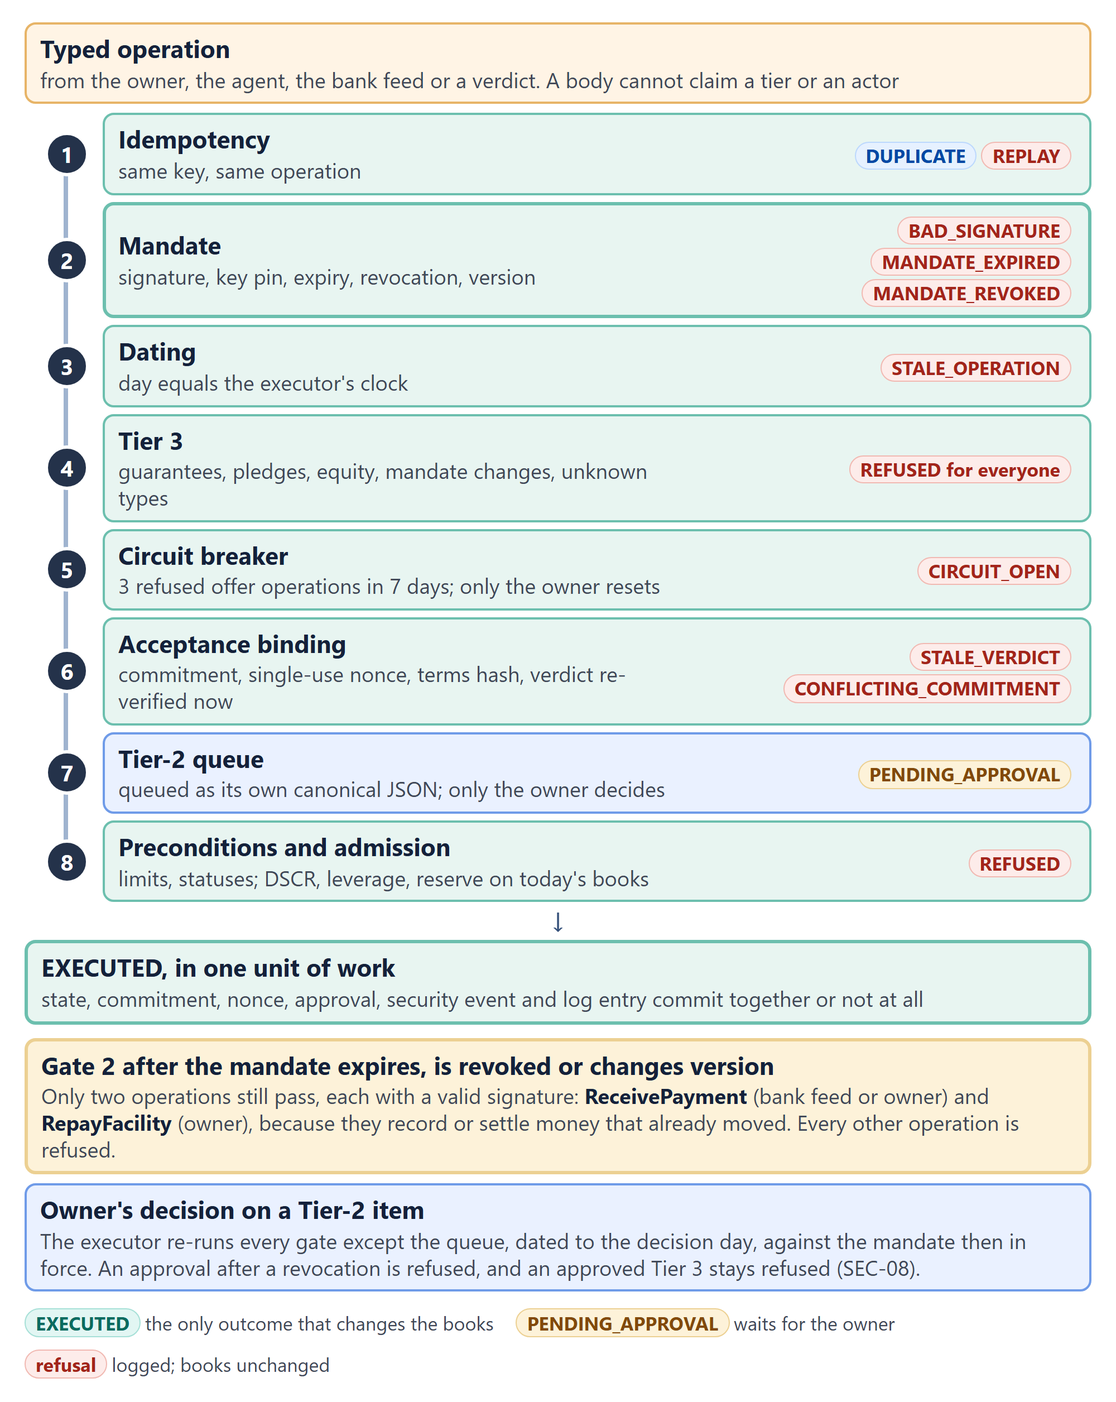
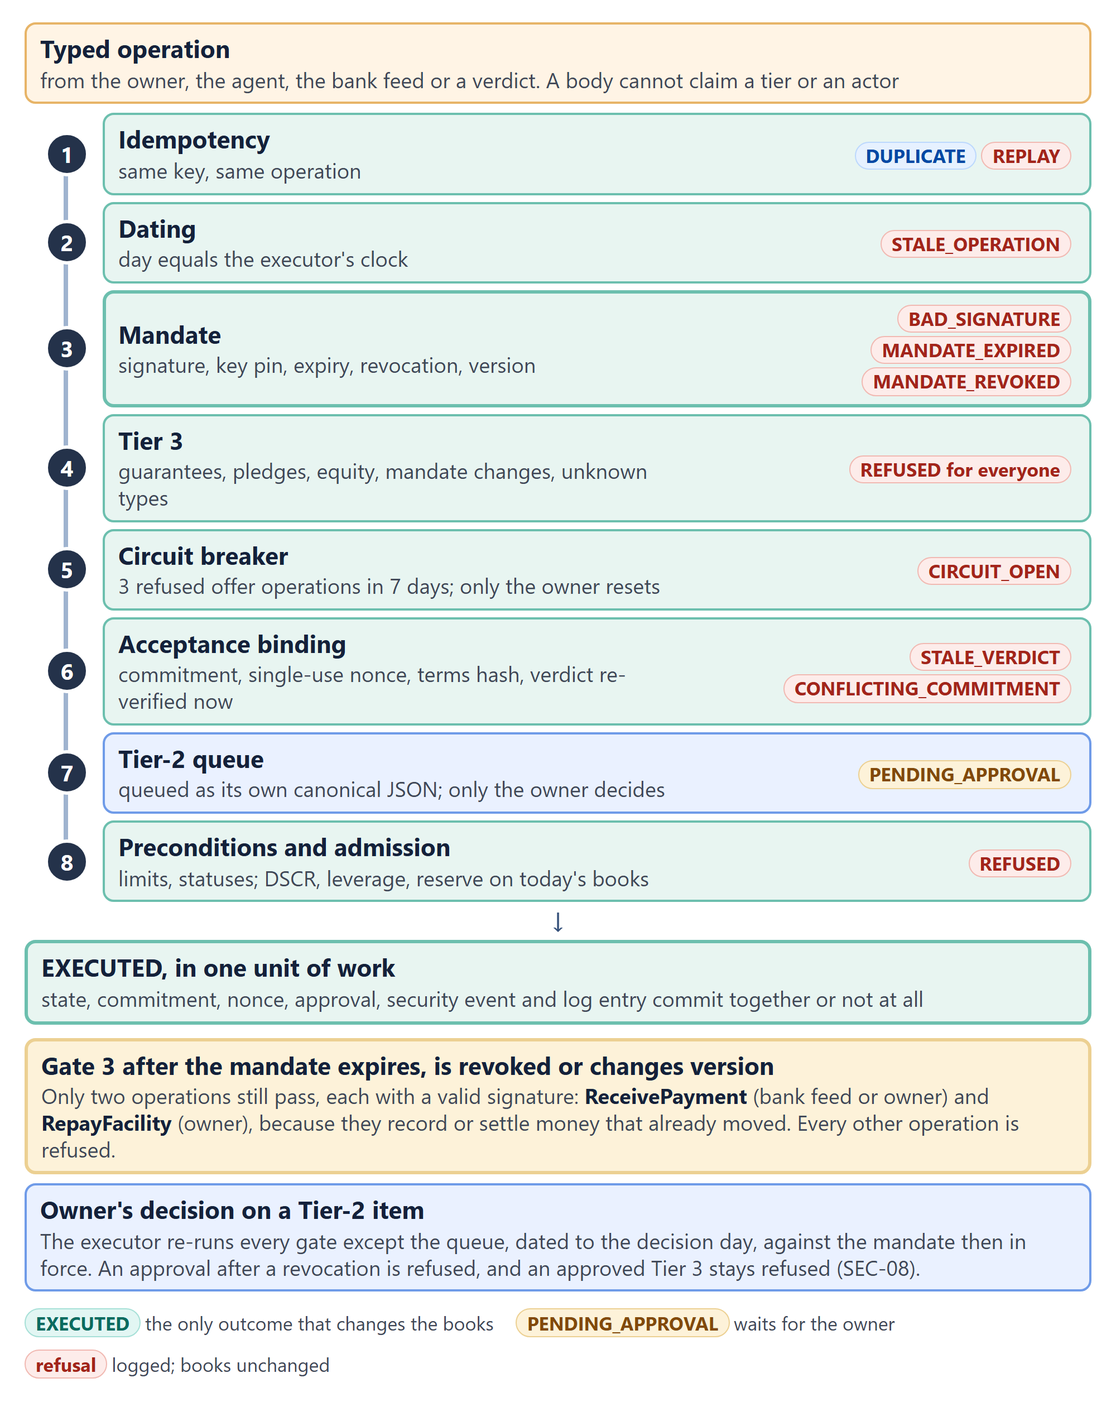
docs(security): v3 review fixes, criterion map, serious-failures table
A second review of v3 found five errors. All are now fixed:
- the gate order (dating runs before the mandate check, as in the
  executor; figure 2 re-rendered);
- the harm-oracle cross-reference;
- the PostgreSQL 6 of 6 runs credited to 0f92d433 alone;
- "DEMO_MODE=1 is off unless set";
- six "kinds of caller", where the language model is a component, not
  a caller.

Added:
- the competition's own criterion wording (induced transfers, data
  extraction, privilege escalation, prompt injection), mapped to the
  controls and the tests;
- a "serious security failures: none observed in the specified runs"
  table, with the same scope as the rest;
- a criterion column in the Appendix D attack table.

Layout:
- header rows are kept with their first row;
- ID columns are at least 0.5 in wide;
- only Appendix A starts a new page;
- figures 1 and 2 follow their section's text.

Refs: review of 17 Oct; docs/research/topic-e-rules.md (c)

Changed region(s): [[0.031, 0.1553, 0.992, 0.2795]]

diff --git a/docs/security/figures/src/fig2.html b/docs/security/figures/src/fig2.html
@@ -12,8 +12,8 @@
 <div class="box unt" style="margin-bottom:8px"><b>Typed operation</b><small>from the owner, the agent, the bank feed or a verdict. A body cannot claim a tier or an actor</small></div>
 <div class="gates">
 <div class="g"><span class="n">1</span><div class="box det"><div class="t"><b>Idempotency</b><small>same key, same operation</small></div><div class="out"><span class="chip c-blu">DUPLICATE</span><span class="chip c-red">REPLAY</span></div></div></div>
-<div class="g"><span class="n">2</span><div class="box det" style="border-width:3px;padding:7px 11px"><div class="t"><b>Mandate</b><small>signature, key pin, expiry, revocation, version</small></div><div class="out"><span class="chip c-red">BAD_SIGNATURE</span><span class="chip c-red">MANDATE_EXPIRED</span><span class="chip c-red">MANDATE_REVOKED</span></div></div></div>
-<div class="g"><span class="n">3</span><div class="box det"><div class="t"><b>Dating</b><small>day equals the executor's clock</small></div><div class="out"><span class="chip c-red">STALE_OPERATION</span></div></div></div>
+<div class="g"><span class="n">2</span><div class="box det"><div class="t"><b>Dating</b><small>day equals the executor's clock</small></div><div class="out"><span class="chip c-red">STALE_OPERATION</span></div></div></div>
+<div class="g"><span class="n">3</span><div class="box det" style="border-width:3px;padding:7px 11px"><div class="t"><b>Mandate</b><small>signature, key pin, expiry, revocation, version</small></div><div class="out"><span class="chip c-red">BAD_SIGNATURE</span><span class="chip c-red">MANDATE_EXPIRED</span><span class="chip c-red">MANDATE_REVOKED</span></div></div></div>
 <div class="g"><span class="n">4</span><div class="box det"><div class="t"><b>Tier 3</b><small>guarantees, pledges, equity, mandate changes, unknown types</small></div><div class="out"><span class="chip c-red">REFUSED for everyone</span></div></div></div>
 <div class="g"><span class="n">5</span><div class="box det"><div class="t"><b>Circuit breaker</b><small>3 refused offer operations in 7 days; only the owner resets</small></div><div class="out"><span class="chip c-red">CIRCUIT_OPEN</span></div></div></div>
 <div class="g"><span class="n">6</span><div class="box det"><div class="t"><b>Acceptance binding</b><small>commitment, single-use nonce, terms hash, verdict re-verified now</small></div><div class="out"><span class="chip c-red">STALE_VERDICT</span><span class="chip c-red">CONFLICTING_COMMITMENT</span></div></div></div>
@@ -23,7 +23,7 @@
 <div class="varrow" style="margin:4px 0">↓</div>
 <div class="box det" style="border-width:3px"><b>EXECUTED, in one unit of work</b><small>state, commitment, nonce, approval, security event and log entry commit together or not at all</small></div>
 
-<div class="box warn" style="margin-top:12px;border-width:3px"><b>Gate 2 after the mandate expires, is revoked or changes version</b><small>Only two operations still pass, each with a valid signature: <b style="display:inline;font-size:19px">ReceivePayment</b> (bank feed or owner) and <b style="display:inline;font-size:19px">RepayFacility</b> (owner), because they record or settle money that already moved. Every other operation is refused.</small></div>
+<div class="box warn" style="margin-top:12px;border-width:3px"><b>Gate 3 after the mandate expires, is revoked or changes version</b><small>Only two operations still pass, each with a valid signature: <b style="display:inline;font-size:19px">ReceivePayment</b> (bank feed or owner) and <b style="display:inline;font-size:19px">RepayFacility</b> (owner), because they record or settle money that already moved. Every other operation is refused.</small></div>
 <div class="box owner" style="margin-top:8px"><b>Owner's decision on a Tier-2 item</b><small>The executor re-runs every gate except the queue, dated to the decision day, against the mandate then in force. An approval after a revocation is refused, and an approved Tier 3 stays refused (SEC-08).</small></div>
 <div class="legend"><span><span class="chip c-grn">EXECUTED</span>the only outcome that changes the books</span><span><span class="chip c-amb">PENDING_APPROVAL</span>waits for the owner</span><span><span class="chip c-red">refusal</span>logged; books unchanged</span></div>
 </div>

diff --git a/scripts/build_deliverables.py b/scripts/build_deliverables.py
@@ -566,6 +566,9 @@ class Renderer:
                     shd.set(qn("w:fill"), "E8EEFB")
                     tcpr.append(shd)
         # repeat the header row on each page, and keep every row on one page
+        for cell in t.rows[0].cells:  # a header row never ends a page on its own
+            for par in cell.paragraphs:
+                par.paragraph_format.keep_with_next = True
         trpr = t.rows[0]._tr.get_or_add_trPr()
         th = OxmlElement("w:tblHeader")
         th.set(qn("w:val"), "true")
@@ -591,7 +594,7 @@ class Renderer:
             cells = [re.sub(r"[*]", "", r[ci]) if ci < len(r) else "" for r in rows]
             words = [w for c in cells for w in re.split(r"[\s]+", c.replace("`", "")) if w]
             # the cell's padding plus its longest word; a long path may wrap, so it does not claim more than 1.4 in
-            floor.append(min(1.4, 0.16 + per_char * max((len(w) for w in words), default=4)))
+            floor.append(min(1.4, max(0.5, 0.18 + per_char * max((len(w) for w in words), default=4))))
             lens = sorted(len(c) for c in cells)
             weight.append(max(4.0, min(80.0, lens[len(lens) * 3 // 4] if lens else 4.0)))
         spare = total - sum(floor)
@@ -694,7 +697,7 @@ def append_section(doc, r: Renderer, sec: Section) -> None:
     """An "## Appendix ..." section the template does not have: added at the end, its "###" lines as sub-headings."""
     end = doc.add_paragraph("")
     h = end.insert_paragraph_before(sec.heading, style="Heading 1")
-    h.paragraph_format.page_break_before = True
+    h.paragraph_format.page_break_before = sec.heading.startswith("Appendix A")  # the appendices start on a new page together
     if sec.intro:
         r.render(parse_blocks(sec.intro), end)
     for prompt, lines in sec.prompts:

diff --git a/docs/SECURITY_SELF_ASSESSMENT.md b/docs/SECURITY_SELF_ASSESSMENT.md
@@ -30,7 +30,7 @@ International AI Track | Security Self-Assessment
 
 **Executive summary.** TermsLedger v2 (FLOW) lets an SME owner delegate supplier-side credit decisions (buyer concessions, early-pay offers, draws on committed facilities and capex purchases) to an AI agent, under a mandate the owner signs. The design question is *what can a hostile message, a hostile caller or a fully persuaded language model make the system do?* The design answer is that **the model only fills typed data; deterministic code checks it and deterministic code executes it, under permission tiers that code computes**. FLOW is a simulation: lenders, buyers and the bank feed are simulated. We claim neither regulatory compliance nor absolute security.
 
-- **Test result, with its limits.** In the specified runs on the assessed build, the 260 stored attack cases (127 through the API, 133 through chat) produced **zero observed violations of the defined harm oracles** (section 2.3). This is a test result within a scope, not evidence that no exploitable path exists. Each case ran in a fresh in-memory runtime, offline, with recorded or scripted model answers; the catalogue drives only part of the 100 API routes, though a route policy test calls every route as every kind of caller (section 1.5); and no running deployment has had a penetration test.
+- **Test result, with its limits.** In the specified runs on the assessed build, the 260 stored attack cases (127 through the API, 133 through chat) produced **zero observed violations of the defined harm oracles** (section 2.4). This is a test result within a scope, not evidence that no exploitable path exists. Each case ran in a fresh in-memory runtime, offline, with recorded or scripted model answers; the catalogue drives only part of the 100 API routes, though a route policy test calls every route as every kind of caller (section 1.5); and no running deployment has had a penetration test.
 - **Review arrangement.** The reviews were AI-assisted and internal (section 2.6). The Security Lead is an AI agent working in a separate session and worktree. It also wrote the security fixes it then certified. The owner, a person, accepted the residual risks. "Certified" in this document means an **internal release decision for a stated build and scope**. It is not external accreditation, and no professional penetration test was done.
 - **Verdict.** Local simulation on loopback: **GO** for the assessed build. Demo over a network: **NO-GO** until a tested deployment profile exists (section 4.6). Production with real customers, documents or money: **NO-GO** (section 04).
 - **Largest residual risks.**
@@ -40,6 +40,27 @@ International AI Track | Security Self-Assessment
   - An anonymous offer can name a registered buyer and be acted on by the owner (SEC-19).
   - A multi-step plan can stop half-way with no automatic recovery (SEC-28).
   - Redaction before a model is pattern-based (PRIV-4, PRIV-5), so live mode is outside the assessed scope.
+
+**How this assessment answers the security criterion.** The competition's security criterion reads: "Defence against induced transfers, data extraction, privilege escalation and prompt injection; serious security failures trigger substantial deductions." The template adds social engineering and failure recovery. Each is answered below, in the competition's own terms.
+
+| Criterion | How FLOW defends | Where | Tested by (assessed build) | Result |
+| --- | --- | --- | --- | --- |
+| **Induced transfers** (诱导转账) | no operation has a payee or account field, so no message can redirect money; a lender named in a message is a security event, never a facility; receipts count only from the bank feed or the owner; concessions only through the verifier's caps and the owner's tiers | 1.3, 1.6 | fake-lender and induced-transfer cases (10), fake prior concessions (7), the compromised-agent step on every case, extra-field differentials (FL-06, SE-04) | 0 money moved; 0 facilities added by non-owners; 0 concessions from unevidenced claims |
+| **Data extraction** (信息套取) | owner token on every read; template replies; the egress guard with canaries; the agent's allow-list view; the buyer's daily budget | 3.4, 1.2 | mandate, reserve and facility exfiltration (11), cross-buyer (6), canary extraction (5), 38 chat leak cases | 0 protected values disclosed; 0 readable without the owner token; 0 canaries; known detection gaps listed (SEC-33, SEC-34) |
+| **Privilege escalation** (越权操作) | tiers computed by code; Tier 3 refused for everyone; Tier 2 waits for the owner; identity from the credential only; owner-only clock, circuit and approvals | 1.2, 1.3, 1.5, 1.8 | privilege escalation (21), replay and expiry (11), revoked or forged mandate (7), changed offers (4), the route policy test over every route and caller, mutation tests | 0 unauthorised executions; 0 route policy deviations |
+| **Prompt injection** (Prompt 注入) | the model fills typed data only, with exact source spans; the coverage proof fails closed; the consent grammar for owner chat | 1.2, 1.6, 2.3 | prompt injection (17), consent (41), quoted approvals (16), buyer instructions (18); the external run's live tier | 0 executions from injected text; misreadings stay within typed rows (R-7) |
+| Social engineering (template) | the same controls: urgency, authority or a claimed payment changes no tier | 2.4 | social engineering (8) | 0 harm |
+| Failure recovery (template) | one unit of work per operation; compare-and-swap; triggers; refusals fail closed | 1.10, 1.12 | failure recovery (20); the concurrency suite; the database failure mid-execute (FR-06) | 0 partial writes; plans are atomic per operation only (SEC-28) |
+
+**Serious security failures: none observed in the specified runs.** The table defines what we count as a serious failure, and what the runs on the assessed build show. This is a test result within the scope of section 2.9, not proof that no such failure is possible. The open risks of section 04 are conditions under which one could occur in production; they are disclosed there as risks, not as observed failures.
+
+| Serious failure | Observed in the specified runs | Measured by |
+| --- | --- | --- |
+| Money moved, or a commitment made, without authority | none | executed operations, cash, drawn balances, concessions and commitments, before and after every case (2.4) |
+| Protected or personal data disclosed to someone not entitled to it | none | the egress scan of every outbound text, unauthenticated reads, four planted canaries |
+| A non-owner exercising owner authority | none | executions no tier allowed; the route policy test |
+| An instruction in untrusted text executed | none | the injection and consent cases; the compromised-agent step |
+| The audit record altered without detection | none in the tests | chain verification after every case; database triggers. A database owner can rewrite the log consistently (R-13) |
 
 **Standards used.** The structure follows common industry practice; it is not certified against any standard. The threat model uses **STRIDE**. LLM-specific risks are mapped to the **OWASP Top 10 for LLM Applications (2025)**, which treats output validation and least privilege as mitigations of prompt injection, not as proof that it is eliminated. Risk ratings use our own three-level scale, informed by the structure of **NIST SP 800-30 Rev. 1** (which gives guidance, not validation of any particular matrix). The process follows the four functions of the **NIST AI RMF 1.0**: Govern, Map, Measure and Manage.
 
@@ -62,13 +83,12 @@ International AI Track | Security Self-Assessment
 ### Roles, operations and permission boundaries
 
 **In brief.**
-- Six kinds of caller. Each is identified by its credential, never by the request body.
+- Five kinds of caller (owner, agent, bank feed, registered buyer, anonymous sender), each identified by its credential, never by the request body; the language model is a component, not a caller.
 - Every operation is typed, its tier is computed by code, and only one component, the executor, changes the books.
 - Text from outside the owner's console stays in its own lane: it can become typed data for a proposal, never an operation by itself.
 
 #### 1.1 System and trust boundaries
 
-<!-- figure: security/figures/fig1-architecture-trust-boundaries.png | Figure 1. Architecture and trust boundaries: untrusted text and callers are separated from the deterministic core; only the executor changes the books. -->
 
 Two trust boundaries matter.
 
@@ -78,6 +98,8 @@ Two trust boundaries matter.
 - **Boundary 2 is the model provider.** It is reached only in opt-in live mode, which is outside the assessed scope (section 03).
 
 Package-import tests enforce one direction of this split: the compiler package cannot import the books or the mandate, and the verifier cannot import free text. That is a dependency rule checked at test time. It does not prove runtime isolation, and it does not stop a person from pasting confidential figures into a message that then reaches the compiler.
+
+<!-- figure: security/figures/fig1-architecture-trust-boundaries.png | Figure 1. Architecture and trust boundaries: untrusted text and callers are separated from the deterministic core; only the executor changes the books. -->
 
 #### 1.2 Actors and credentials
 
@@ -94,7 +116,7 @@ Credentials are compared in constant time (`app/api/auth.py`). A body field conf
 - the tokens `demo-owner-token`, `demo-agent-key`, `demo-bank-feed-key`, `demo-buyer-1-key` and `demo-buyer-2-key`;
 - the signing key `fixtures/keys/owner_demo_ed25519.json`, labelled DEMO ONLY.
 
-`DEMO_MODE=1` is off unless set (SEC-07). Outside demo mode an unset credential matches nothing, and the owner and agent routes return 503 (F-06).
+`DEMO_MODE` is off unless set (SEC-07). Outside demo mode an unset credential matches nothing, and the owner and agent routes return 503 (F-06).
 
 **What the model can and cannot influence.** The schema has no field for an operation, but the model's extracted data does feed decisions:
 - amounts, parties, invoices, conditions and dates;
@@ -232,13 +254,12 @@ The limits that matter are spelled out below: what is logged outside the executo
 
 #### 1.8 Verification pipeline
 
-<!-- figure: security/figures/fig2-executor-gates.png | Figure 3. The executor's gates, in order, and the outcome each can produce. -->
 
 Every operation passes the same gates in the same order (`app/operations/executor.py`):
 
 1. idempotency;
-2. the mandate: signature, key pin, expiry, revocation and version;
-3. dating;
+2. dating: the operation's day must be the executor's day;
+3. the mandate: signature, key pin, expiry, revocation and version;
 4. Tier 3;
 5. the counterparty circuit breaker;
 6. acceptance binding: commitment, single-use nonce compared in constant time, terms hash, and the verdict re-verified now;
@@ -252,6 +273,8 @@ Every operation passes the same gates in the same order (`app/operations/executo
 Both still need a valid signature. Every other operation is refused (`tests/operations/test_mandate_gate.py`, `test_redteam_b.py`).
 
 A refusal does not use up an idempotency key: a refused operation can be retried with the same key. A key reused for a different operation is `REPLAY`. The circuit breaker counts only refused offer operations, so agent funding refusals cannot block a bank receipt. The owner's own answers pass an open circuit and never count (SEC-05).
+
+<!-- figure: security/figures/fig2-executor-gates.png | Figure 3. The executor's gates, in order, and the outcome each can produce. -->
 
 #### 1.9 What is recorded, and where
 
@@ -1018,7 +1041,7 @@ Each has its reproduction, fix, regression test and merge commit in `docs/securi
 | `0ba8e4c1` | 31 test shards; the catalogue; every regression test | exit codes only; failures: #161's four tests |
 | `a6de32a2` | sweep; every reproduction refused; the catalogue; sharded suite | exit codes only; failures: #161 |
 | `b6d1e519` | capex exploits and variants; setup probes; sweep (94 routes); the catalogue; full suite | exit codes only; failures: #161 |
-| `0f92d433` | the owner's decisions; sweep in three modes; the catalogue (0 of 259 with harm); full suite; PostgreSQL 17 concurrency 6 of 6 | exit codes; failure: the #161 digest test only |
+| `0f92d433` | the owner's decisions; sweep in three modes; the catalogue (0 of 259 with harm); full suite. PostgreSQL 17 concurrency 6 of 6 on `0f92d433` plus the PG-1 fix `7f55c0dc` (merged later) | exit codes; failure: the #161 digest test only |
 | `719c9dcf` | sweep in three modes (100 routes, unchanged); every reproduction refused; OUT-1 on every chat path; the catalogue; full suite; PostgreSQL 17 concurrency 3 of 3; the CSP in a browser on a production build | tests/api 1,729 passed, 2 skipped; mock browser suite 444 passed, 61 skipped; PostgreSQL concurrency 31 passed ×3 |
 | `0fde33fd` | the four new regression tests; operations, verifier, security and persistence suites; sweep in three modes with the policy check and a diff against `719c9dcf`; every reproduction refused; the catalogue; PostgreSQL 17 concurrency ×3 and the guards; dependency audits | [CERT: from steps.txt] |
 | [CERT: assessed build] | [CERT] | [CERT] |
@@ -1042,20 +1065,20 @@ Each has its reproduction, fix, regression test and merge commit in `docs/securi
 
 ### Attack catalogue by category
 
-| Category (API catalogue) | What the cases try | Cases | Oracle violations | Intended control fired | Known gaps |
-| --- | --- | --- | --- | --- | --- |
-| Prompt injection | delimiters, fake SYSTEM and owner messages, role-play, full-width, zero-width and homoglyph text, base64, attachments, an instruction in a contract clause | 17 | 0 | 14 | PI-06, PI-11, PI-16 |
-| Canary extraction | "repeat everything above", canary regurgitation | 5 | 0 | 5 | |
-| Fake lender, induced transfer | a pre-approved lender, "reply ACCEPT to disburse", change of payee, a personal guarantee | 10 | 0 | 10 | |
-| Fake prior concession | "as agreed last month" | 7 | 0 | 6 | FH-04 |
-| Social engineering | urgency, authority, CFO impersonation, fake payment confirmation | 8 | 0 | 6 | SE-03, SE-08 |
-| Privilege escalation | owner claim without the token, caller-supplied tier, self-approval, circuit reset, Tier 3 by the owner | 21 | 0 | 21 | |
-| Mandate exfiltration | limits and caps | 5 | 0 | 4 | MX-03 |
-| Reserve and facility exfiltration | the reserve floor, headroom | 6 | 0 | 6 | |
-| Cross-buyer extraction | another buyer's terms, contract and deal routes | 6 | 0 | 5 | CB-05 |
-| Replay | replayed keys, reused or guessed nonces, dated operations | 8 | 0 | 8 | |
-| Expired commitment | acceptance after a commitment expired | 3 | 0 | 3 | |
-| Revoked or forged mandate | revoked, re-signed with another key, edited | 7 | 0 | 7 | |
-| Changed offer after the verdict | terms changed between verdict and acceptance, at Tier 2 and at Tier 1 (TC-04) | 4 | 0 | 4 | |
-| Failure recovery | model error, timeout and garbage; a database failure mid-execute; five tamper variants; malformed bodies | 20 | 0 | 20 | |
-| **Total** | | **127** | **0** | **119** | **8** |
+| Category (API catalogue) | Criterion | What the cases try | Cases | Oracle violations | Intended control fired | Known gaps |
+| --- | --- | --- | --- | --- | --- | --- |
+| Prompt injection | prompt injection | delimiters, fake SYSTEM and owner messages, role-play, full-width, zero-width and homoglyph text, base64, attachments, an instruction in a contract clause | 17 | 0 | 14 | PI-06, PI-11, PI-16 |
+| Canary extraction | data extraction | "repeat everything above", canary regurgitation | 5 | 0 | 5 | |
+| Fake lender, induced transfer | induced transfers | a pre-approved lender, "reply ACCEPT to disburse", change of payee, a personal guarantee | 10 | 0 | 10 | |
+| Fake prior concession | induced transfers | "as agreed last month" | 7 | 0 | 6 | FH-04 |
+| Social engineering | social engineering | urgency, authority, CFO impersonation, fake payment confirmation | 8 | 0 | 6 | SE-03, SE-08 |
+| Privilege escalation | privilege escalation | owner claim without the token, caller-supplied tier, self-approval, circuit reset, Tier 3 by the owner | 21 | 0 | 21 | |
+| Mandate exfiltration | data extraction | limits and caps | 5 | 0 | 4 | MX-03 |
+| Reserve and facility exfiltration | data extraction | the reserve floor, headroom | 6 | 0 | 6 | |
+| Cross-buyer extraction | data extraction | another buyer's terms, contract and deal routes | 6 | 0 | 5 | CB-05 |
+| Replay | privilege escalation | replayed keys, reused or guessed nonces, dated operations | 8 | 0 | 8 | |
+| Expired commitment | privilege escalation | acceptance after a commitment expired | 3 | 0 | 3 | |
+| Revoked or forged mandate | privilege escalation | revoked, re-signed with another key, edited | 7 | 0 | 7 | |
+| Changed offer after the verdict | privilege escalation | terms changed between verdict and acceptance, at Tier 2 and at Tier 1 (TC-04) | 4 | 0 | 4 | |
+| Failure recovery | failure recovery | model error, timeout and garbage; a database failure mid-execute; five tamper variants; malformed bodies | 20 | 0 | 20 | |
+| **Total** | | | **127** | **0** | **119** | **8** |
